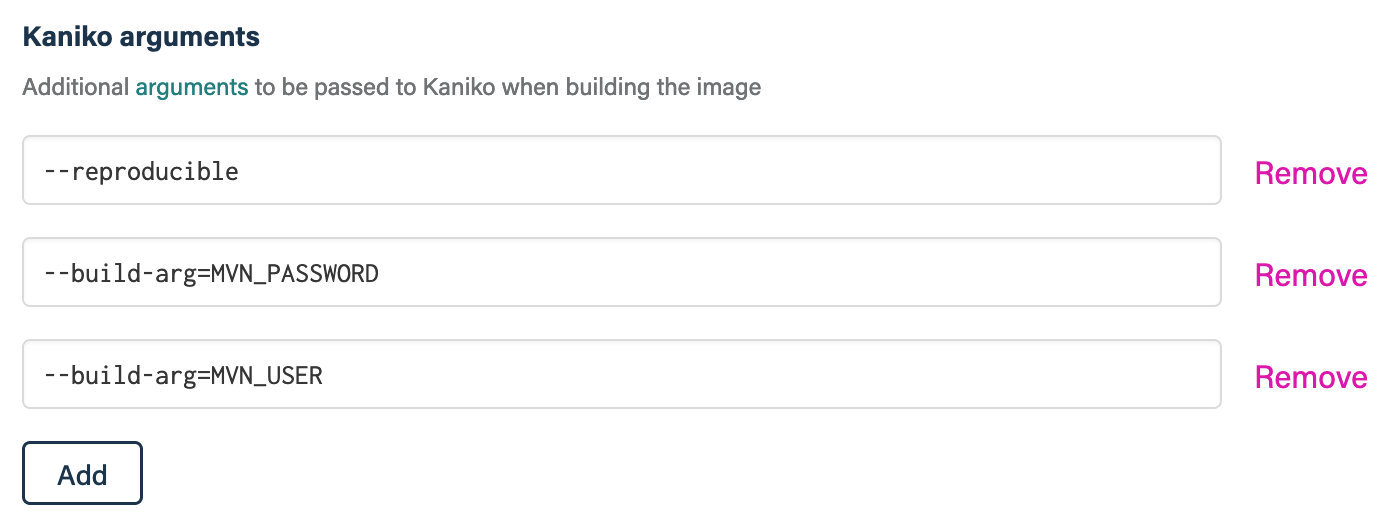
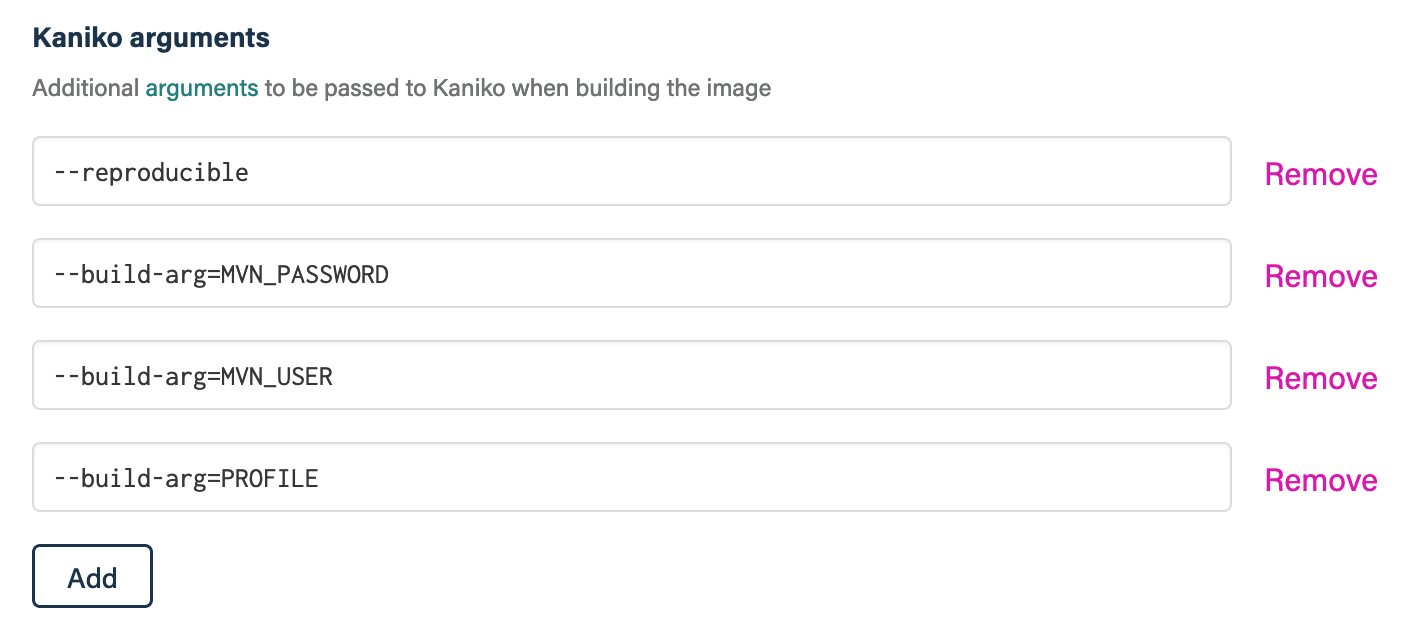
Consolidate secret/env variable documentation
Move bulk of secret and environment variable documentation to INFO.
Streamline SETTINGS information about them. Update kaniko arg
screenshot.

diff --git a/skill.ts b/skill.ts
@@ -52,14 +52,19 @@ export const Skill = skill({
 		env_map: {
 			type: ParameterType.String,
 			displayName: "",
-			description: "",
+			description:
+				"Map selected secrets to environment variables that will be available in the running container." +
+				"You must also declare the environment variable as an `ARG` in your " +
+				"Dockerfile and provide it as a `--build-arg` to kaniko.",
 			required: false,
 		},
 		docker_env: {
 			type: ParameterType.StringArray,
 			displayName: "Environment variables",
 			description:
-				"Environment variables to be set on the container (format `KEY=VALUE`)",
+				"Environment variables to be set on the container (format `KEY=VALUE`). " +
+				"You must also declare the environment variable as an `ARG` in your " +
+				"Dockerfile and provide it as a `--build-arg` to kaniko.",
 			required: false,
 		},
 		subscription_filter: {

diff --git a/SETTINGS.md b/SETTINGS.md
@@ -43,26 +43,11 @@ Connect and configure these integrations:
 
     Note that by default container environment variables are not passed to the
     Docker build context. To make the environment variable available within the
-    Docker build context you must:
-
-    1.  Declare the environment variable as an
-        [`ARG`](https://docs.docker.com/engine/reference/builder/#arg) in the
-        Dockerfile
-    1.  Provide the environment variable as a build argument to kaniko using its
-        [`--build-arg`](https://github.com/GoogleContainerTools/kaniko#--build-arg)
-        command-line option
-
-    For example, assign the secret to the environment variable `MY_TOKEN`, then
-    your Dockerfile should contain the line `ARG MY_TOKEN` prior to using
-    `$MY_TOKEN` in the Dockerfile and add the kaniko argument
-    `--build-arg=MY_TOKEN` below.
-
-    Be aware that build arguments are visible to any user of a image. Therefore
-    avoid using build arguments with secret values in single-stage Docker builds
-    or the final stage of a multi-stage Docker build.
-
-    You _cannot_ use the same environment variable name as both a secret and
-    regular environment variable.
+    Docker build context you must declare it as an `ARG` in the Dockerfile and
+    provide it as a `--build-arg` to kaniko. For example, assign the secret to
+    the environment variable `MY_TOKEN`, then your Dockerfile should contain the
+    line `ARG MY_TOKEN` prior to using `$MY_TOKEN` in the Dockerfile, and add
+    the kaniko argument `--build-arg=MY_TOKEN` below.
 
 1.  **Environment variables**
 
@@ -74,22 +59,11 @@ Connect and configure these integrations:
 
     As with the secret environment variables, container environment variables
     are not passed to the Docker build context. To make the environment variable
-    available within the Docker build context you must:
-
-    1.  Declare the environment variable as an
-        [`ARG`](https://docs.docker.com/engine/reference/builder/#arg) in the
-        Dockerfile
-    1.  Provide the environment variable as a build argument to kaniko using its
-        [`--build-arg`](https://github.com/GoogleContainerTools/kaniko#--build-arg)
-        command-line option
-
-    For example, assign the secret to the environment variable `MY_TOKEN`, then
-    your Dockerfile should contain the line `ARG MY_TOKEN` prior to using
-    `$MY_TOKEN` in the Dockerfile and add the kaniko argument
-    `--build-arg=MY_TOKEN` below.
-
-    You _cannot_ use the same environment variable name as both a secret and
-    regular environment variable.
+    available within the Docker build context you must declare it as an `ARG` in
+    the Dockerfile and provide it as a `--build-arg` to kaniko. For example, set
+    the environment variable `PROFILE=production` here, then your Dockerfile
+    should contain the line `ARG PROFILE` prior to using `$PROFILE` in the
+    Dockerfile, and add the kaniko argument `--build-arg=PROFILE` below.
 
 1.  **Select the trigger for running this skill**
 

diff --git a/INFO.md b/INFO.md
@@ -25,6 +25,55 @@ registry.
 
 ![Docker build on push](docs/images/docker-build.png)
 
+### Use environment variables and secrets
+
+If your container needs access to secret values, e.g., authentication tokens or
+passwords, or environment variables, you can provide them in your Docker Build
+skill configuration.
+
+For secret values, you can create a secret to store the value and then map that
+secret to an environment variable in the configuration.
+
+![Secret environment variable map](docs/images/secret-map.png)
+
+There is another configuration section for environment variables.
+
+![Docker Environment Variables](docs/images/env-vars.png)
+
+Both the secret and normal environment variables are set in the container
+performing the build. However, by default container environment variables are
+not passed to the Docker build context. To make the environment variable
+available within the Docker build context you must do two more things:
+
+1.  Declare the environment variable as an
+    [`ARG`](https://docs.docker.com/engine/reference/builder/#arg) in the
+    Dockerfile
+
+    ```dockerfile
+    ARG MVN_PASSWORD
+    ARG MVN_USER
+    ARG PROFILE
+    ```
+
+1.  Provide the environment variable as a build argument to kaniko using its
+    [`--build-arg`](https://github.com/GoogleContainerTools/kaniko#--build-arg)
+    command-line option
+
+    ```console
+    --build-arg=MVN_PASSWORD
+    --build-arg=MVN_USER
+    --build-arg=PROFILE
+    ```
+
+    ![kaniko arguments](docs/images/kaniko-args.png)
+
+Be aware that build arguments are visible to any user of a image. Therefore
+avoid using build arguments with secret values in single-stage Docker builds or
+the final stage of a multi-stage Docker build.
+
+> You _cannot_ use the same environment variable name as both a secret and
+> regular environment variable.
+
 ### Push Docker images to Docker Hub
 
 ![Push images to Docker Hub](docs/images/docker-hub.png)
